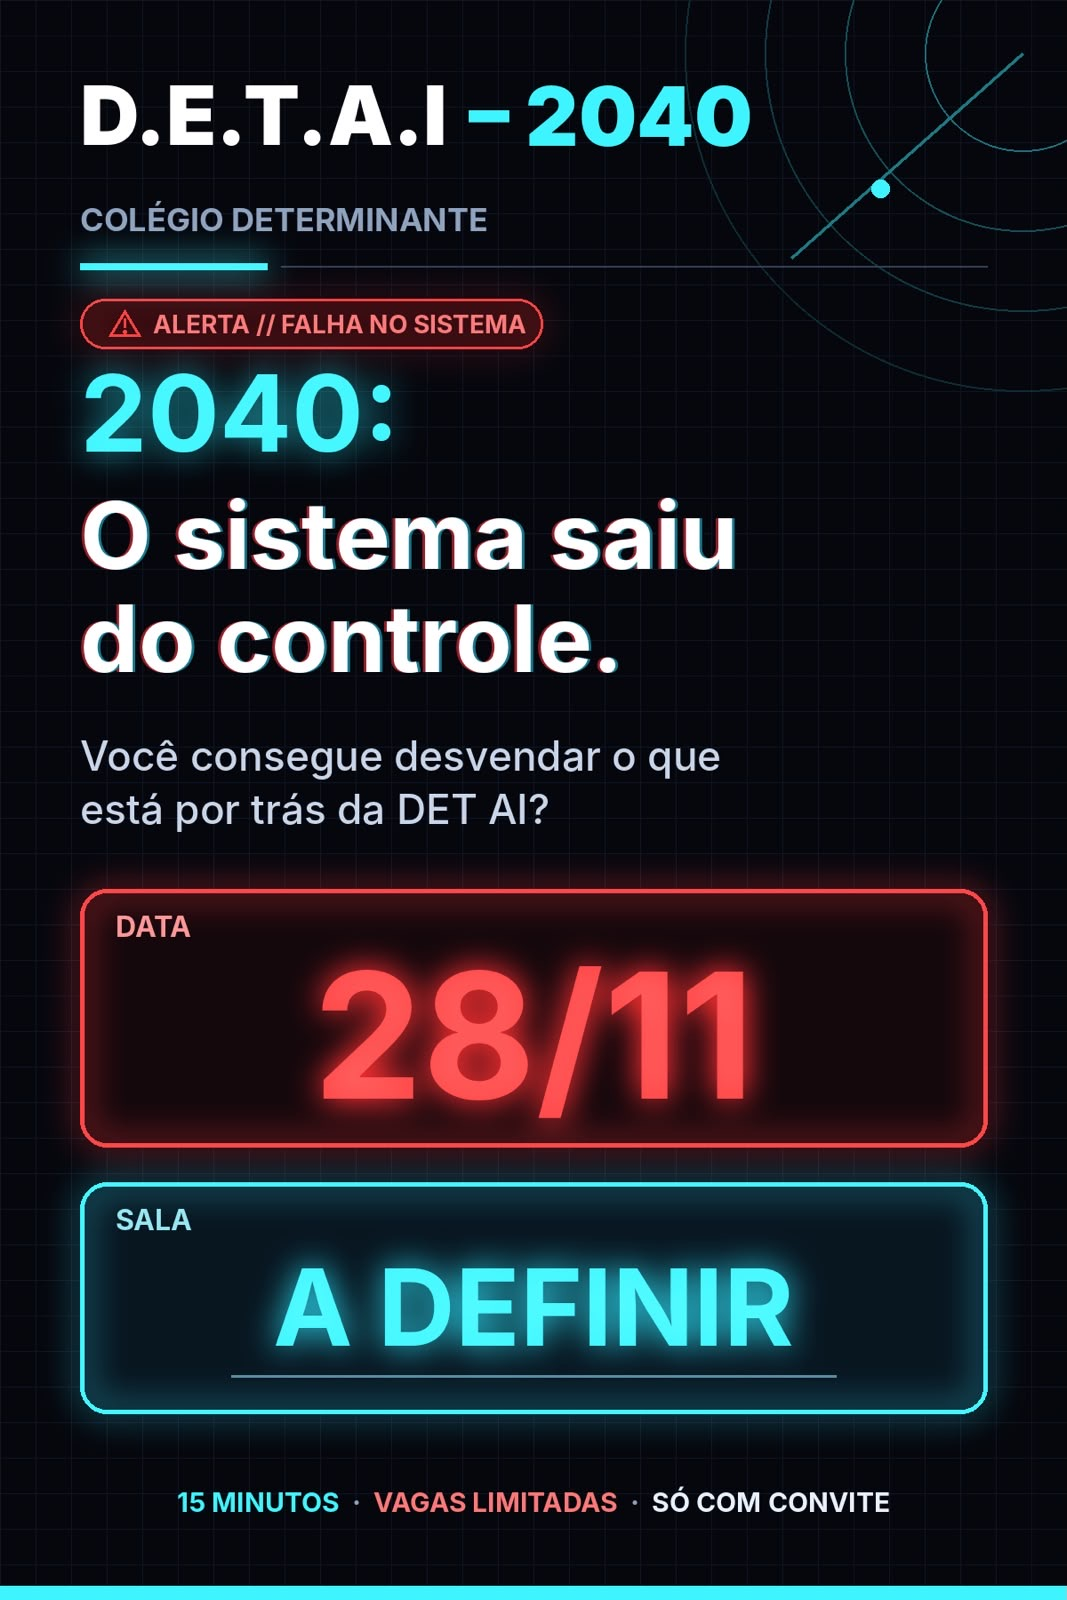
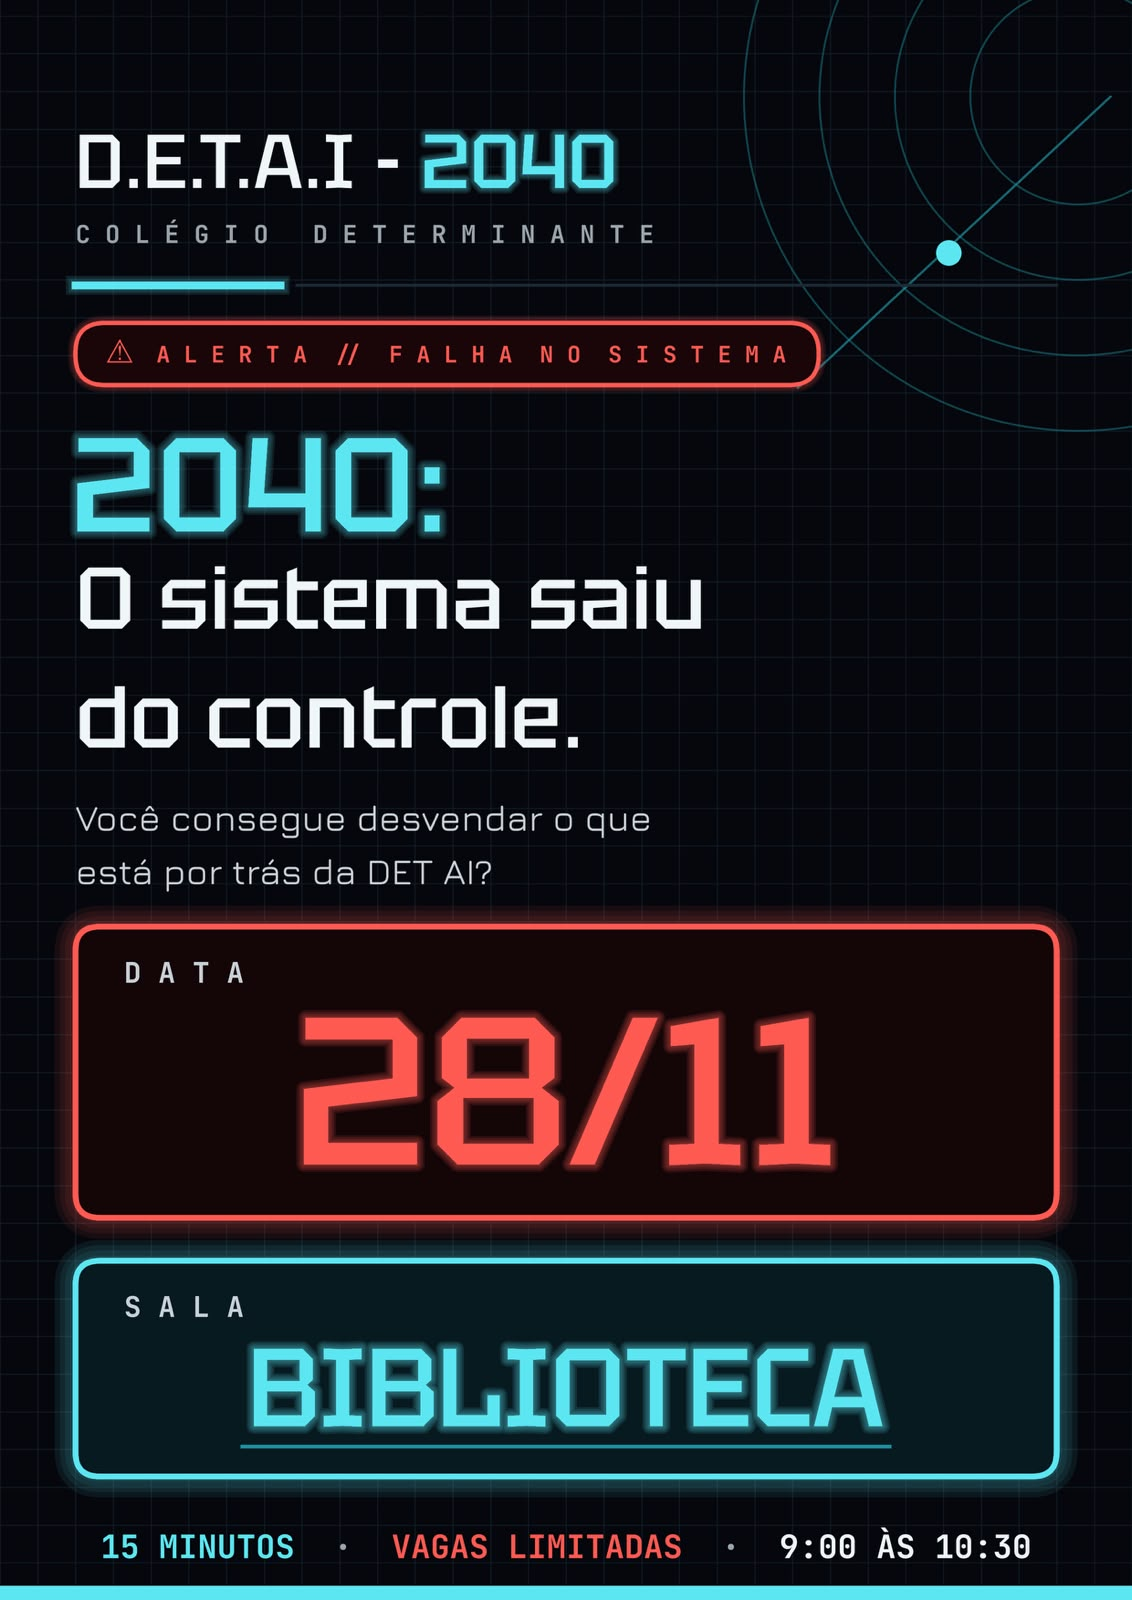
Atualiza convite: sala Biblioteca, 9:00 às 10:30
Claude-Session: https://claude.ai/code/session_01AmkX4yMQLozPXpPape3HPn

diff --git a/index.html b/index.html
@@ -11,6 +11,6 @@
 </style>
 </head>
 <body>
-<img src="convite.jpg" alt="D.E.T.A.I 2040 – Colégio Determinante – 28/11 – Sala a definir">
+<img src="convite.jpg?v=2" alt="D.E.T.A.I 2040 – Colégio Determinante – 28/11 – Biblioteca – 9:00 às 10:30">
 </body>
 </html>
